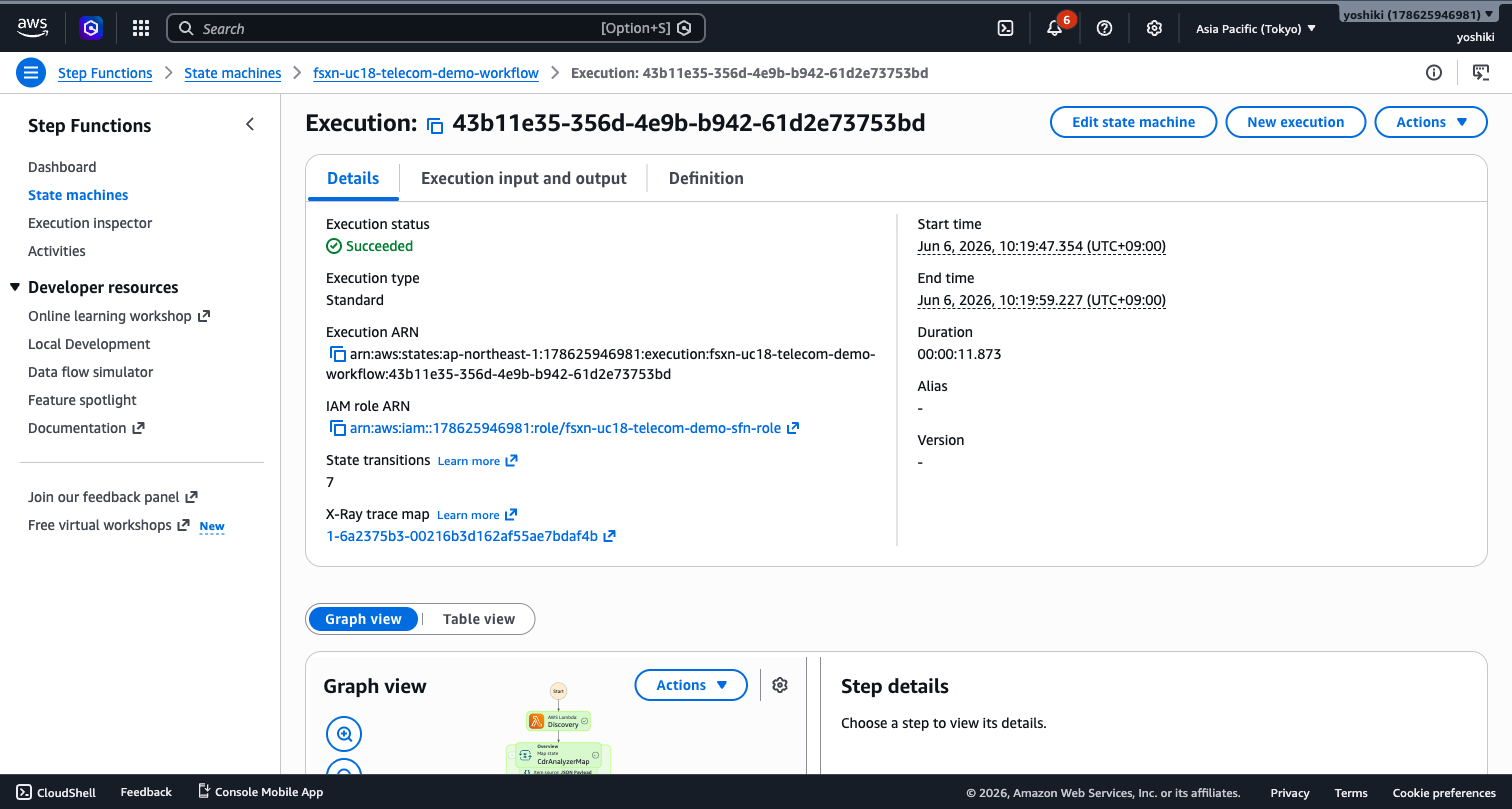
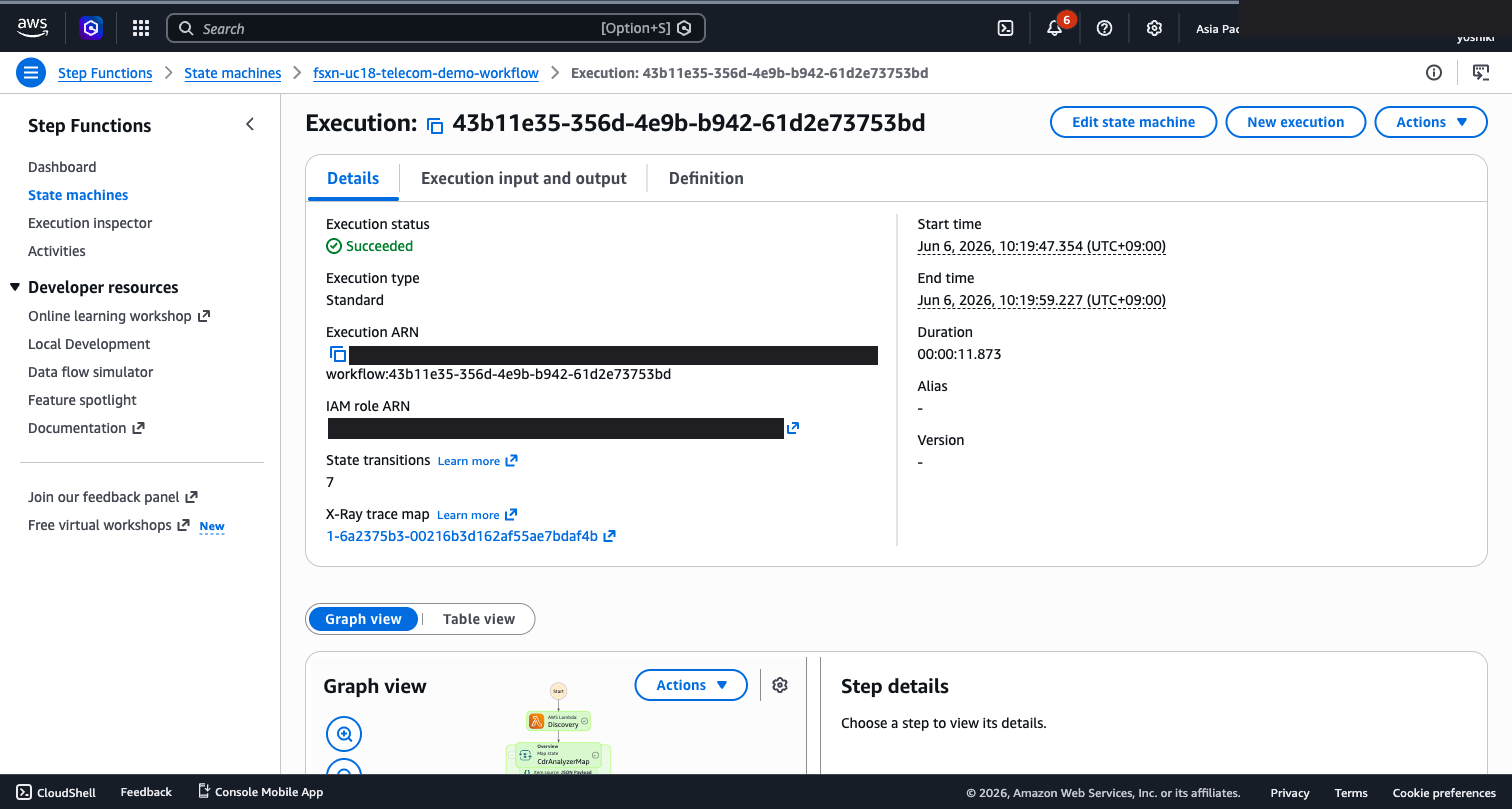
fix: scan every tracked image for leaks, and re-mask three that leaked

Changed region(s): [[0.2176, 0.4017, 0.5906, 0.4635], [0.2176, 0.4944, 0.5284, 0.5562], [0.8082, 0.0, 1.0, 0.0618]]

diff --git a/scripts/_check_sensitive_leaks.py b/scripts/_check_sensitive_leaks.py
@@ -9,8 +9,13 @@ Usage:
     python3 scripts/_check_sensitive_leaks.py          # scan images + text
     python3 scripts/_check_sensitive_leaks.py --images  # images only
     python3 scripts/_check_sensitive_leaks.py --text    # text files only
+    python3 scripts/_check_sensitive_leaks.py a.png b.md   # only these paths
 
-GITIGNORED.
+The string list lives in scripts/_sensitive_strings.py, which IS gitignored and
+must never be committed: it is the inventory of the real identifiers being kept out
+of the repository. This file is tracked, so a fresh checkout has the checker but not
+the list, and supplying your own is the intended setup step. It used to import the
+list at module scope, which meant a clean checkout could not even reach --help.
 """
 
 from __future__ import annotations
@@ -21,10 +26,23 @@ from pathlib import Path
 
 PROJECT_ROOT = Path(__file__).resolve().parent.parent
 sys.path.insert(0, str(PROJECT_ROOT / "scripts"))
-from _sensitive_strings import SENSITIVE_STRINGS  # type: ignore
+try:
+    from _sensitive_strings import SENSITIVE_STRINGS  # type: ignore
+except ImportError:
+    # Exit 2, distinct from the exit 1 that means "leaks found", so a caller can tell
+    # "this machine cannot check" apart from "this content is clean". Conflating those
+    # is how a checker starts reporting success without having looked at anything.
+    print(
+        "scripts/_sensitive_strings.py が見つかりません（gitignore 対象なので clone には含まれません）。\n"
+        "検査したい実際の識別子を SENSITIVE_STRINGS: list[str] として定義してください。\n"
+        "例: SENSITIVE_STRINGS = ['123456789012', 'fs-0123456789abcdef0', '10.1.2.3']",
+        file=sys.stderr,
+    )
+    sys.exit(2)
 
 # File extensions to scan for text leaks
 TEXT_EXTENSIONS = {".md", ".yaml", ".yml", ".json", ".sh", ".py", ".ts", ".js", ".txt"}
+IMAGE_SUFFIXES = {".png", ".jpg", ".jpeg", ".gif", ".webp"}
 
 # Paths to exclude from text scanning (relative to PROJECT_ROOT)
 EXCLUDE_PATHS = {
@@ -98,16 +116,29 @@ def scan_text_file(path: Path) -> list[tuple[str, int, str]]:
 
 
 def scan_images() -> dict[str, list[tuple[str, str]]]:
-    """Scan masked screenshots for sensitive string leaks via OCR."""
-    root = PROJECT_ROOT / "docs" / "screenshots" / "masked"
+    """Scan every git-tracked image for sensitive string leaks via OCR.
+
+    Scope note: this used to glob docs/screenshots/masked/**.png only. 87 of the 279
+    tracked images sit outside that directory -- docs/screenshots/ itself, portal-demo,
+    phase11 -- so a clean run described one subtree while being reported as describing
+    the repository. What a checker looked at is part of its result, and the text half
+    of this file had always enumerated tracked files rather than one directory.
+
+    Two things this still cannot tell you: OCR only reads text it can resolve, so a
+    leak rendered small enough may not be read (verified: a 12-digit id at the default
+    PIL bitmap size was missed, the same id at 44px was read verbatim), and it only
+    matches the strings listed in _sensitive_strings.py.
+    """
     leaks: dict[str, list[tuple[str, str]]] = {}
     total = 0
-    for p in sorted(root.rglob("*.png")):
+    for p in sorted(get_tracked_files()):
+        if p.suffix.lower() not in IMAGE_SUFFIXES or is_excluded(p) or not p.exists():
+            continue
         total += 1
         hits = scan_image(p)
         if hits:
             leaks[str(p.relative_to(PROJECT_ROOT))] = hits
-    print(f"Scanned: {total} masked images")
+    print(f"Scanned: {total} tracked images")
     print(f"Images with detectable sensitive substrings: {len(leaks)}")
     return leaks
 
@@ -133,8 +164,48 @@ def scan_text_files() -> dict[str, list[tuple[str, int, str]]]:
     return leaks
 
 
+UNAVAILABLE = -1
+
+
+def scan_explicit(paths: list[Path]) -> int:
+    """Scan exactly the paths given. Returns the count of files with leaks.
+
+    Returns UNAVAILABLE if OCR could not run at all, which the caller must not read
+    as "clean". The commit gate uses this mode: it knows which files are staged, and
+    re-scanning the whole screenshot tree does not fit a PreToolUse timeout.
+    """
+    files_with_leaks = 0
+    for path in paths:
+        if not path.exists():
+            print(f"  skipped (missing): {path}")
+            continue
+        if path.suffix.lower() in IMAGE_SUFFIXES:
+            hits = scan_image(path)
+            if any(token in ("IMPORT_ERROR", "OCR_ERROR") for token, _ in hits):
+                print(f"  cannot scan {path}: {hits[0][1]}", file=sys.stderr)
+                return UNAVAILABLE
+            for token, word in hits:
+                print(f"  {path}: leaked='{token}' in OCR word='{word}'")
+        else:
+            text_hits = scan_text_file(path)
+            hits = [(token, line) for token, _, line in text_hits]
+            for token, line_num, line in text_hits:
+                print(f"  {path}: L{line_num} leaked='{token}' in: {line}")
+        if hits:
+            files_with_leaks += 1
+    return files_with_leaks
+
+
 def main() -> None:
     args = sys.argv[1:]
+    explicit = [Path(a) for a in args if not a.startswith("-")]
+    if explicit:
+        found = scan_explicit(explicit)
+        if found == UNAVAILABLE:
+            sys.exit(2)
+        print(f"Scanned {len(explicit)} path(s); files with leaks: {found}")
+        sys.exit(1 if found else 0)
+
     scan_img = "--images" in args or not args
     scan_txt = "--text" in args or not args
 
